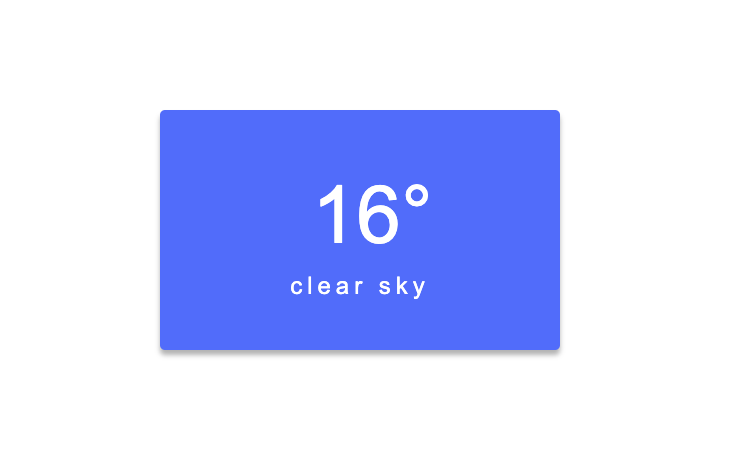
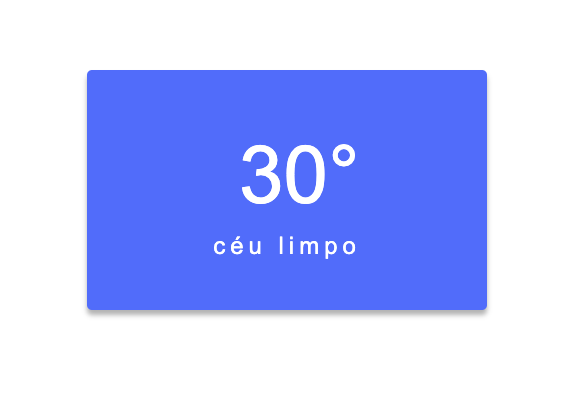
Updating lang and readme.md

Changed region(s): [[0.1241, 0.1559, 0.869, 0.7794], [0.4034, 0.3429, 0.6207, 0.53], [0.3724, 0.5612, 0.6207, 0.6235]]

diff --git a/src/index.js b/src/index.js
@@ -10,7 +10,7 @@ class DioWeather extends HTMLElement {
       <style>${style}</style>
       <div class="app">
         <h1 id="temp-main">0°</h1>
-        <h2 id="condition">unknown</h2>
+        <h2 id="condition">desconhecida</h2>
       <div/>
     `;
 
@@ -21,7 +21,8 @@ class DioWeather extends HTMLElement {
     if (navigator.geolocation) {
       navigator.geolocation.getCurrentPosition(
         data => this.getWeather(data),
-        err => console.log(err)
+        err => console.log(err),
+        { timeout: 10000 }
       );
     } else {
       alert('Geolocation not supported by this browser');
@@ -29,7 +30,7 @@ class DioWeather extends HTMLElement {
   }
 
   getWeather({ coords: { latitude, longitude } }) {
-    const baseURL = `http://api.openweathermap.org/data/2.5/onecall?lat=${latitude}&lon=${longitude}&appid=${API_KEY}`;
+    const baseURL = `http://api.openweathermap.org/data/2.5/onecall?lat=${latitude}&lon=${longitude}&appid=${API_KEY}&lang=pt_br`;
 
     fetch(baseURL)
       .then(res => res.json())

diff --git a/README.md b/README.md
@@ -3,5 +3,23 @@ Dio Weather Widget based on [EdwinWalela Geo Weather Component](https://github.c
 
 ![screenshot](example.png?raw=true "screenshot")
 
+# Running locally
+Create a api key in [Open Weather](https://openweathermap.org/) and a `.env` file in the root of application with your key:
+```
+API_KEY=YOUR_OPEN_WEATHER_KEY
+```
+
+With `node` installed install the dependencies with:
+```sh
+$ npm install
+```
+
+Run the developer server with:
+```sh
+$ npm start 
+```
+
+And access http://localhost:8080.
+
 # License
 This project is licensed under the MIT License - see the [LICENSE.md](LICENSE.md) file for details
